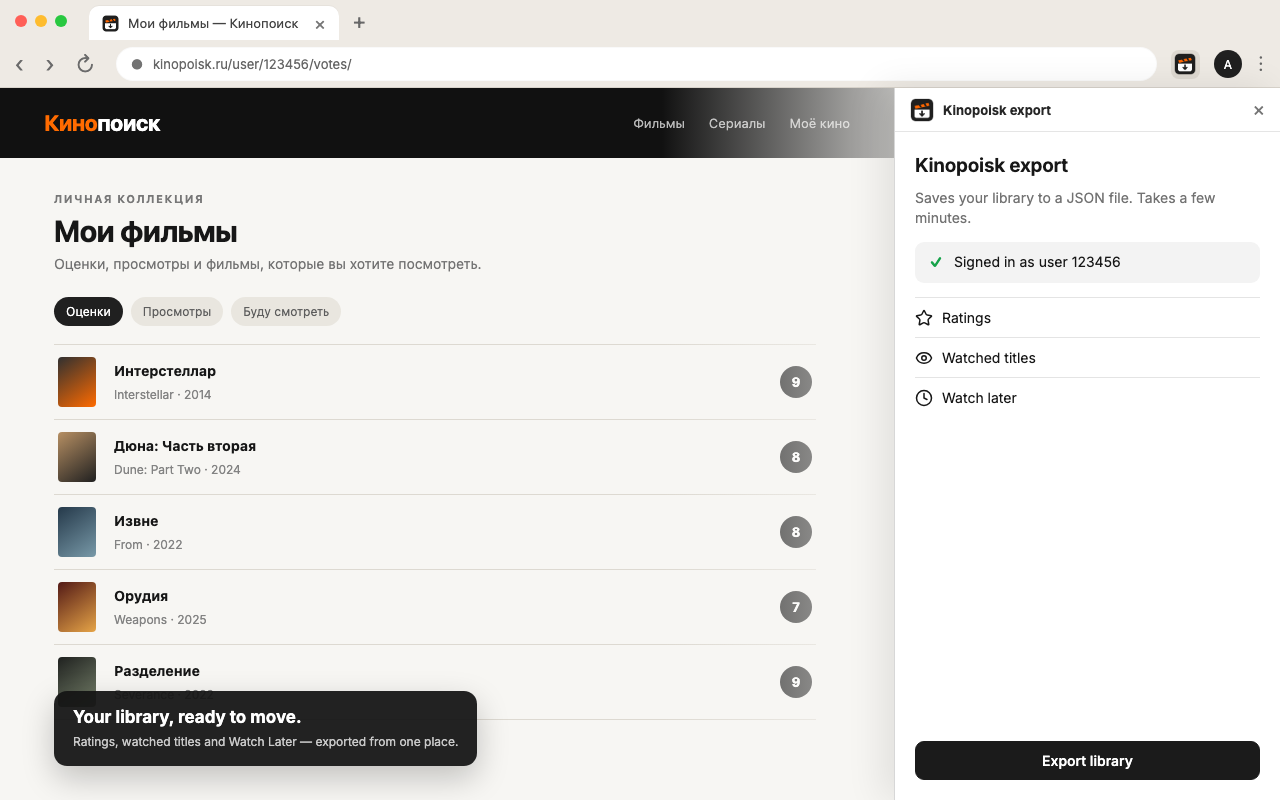
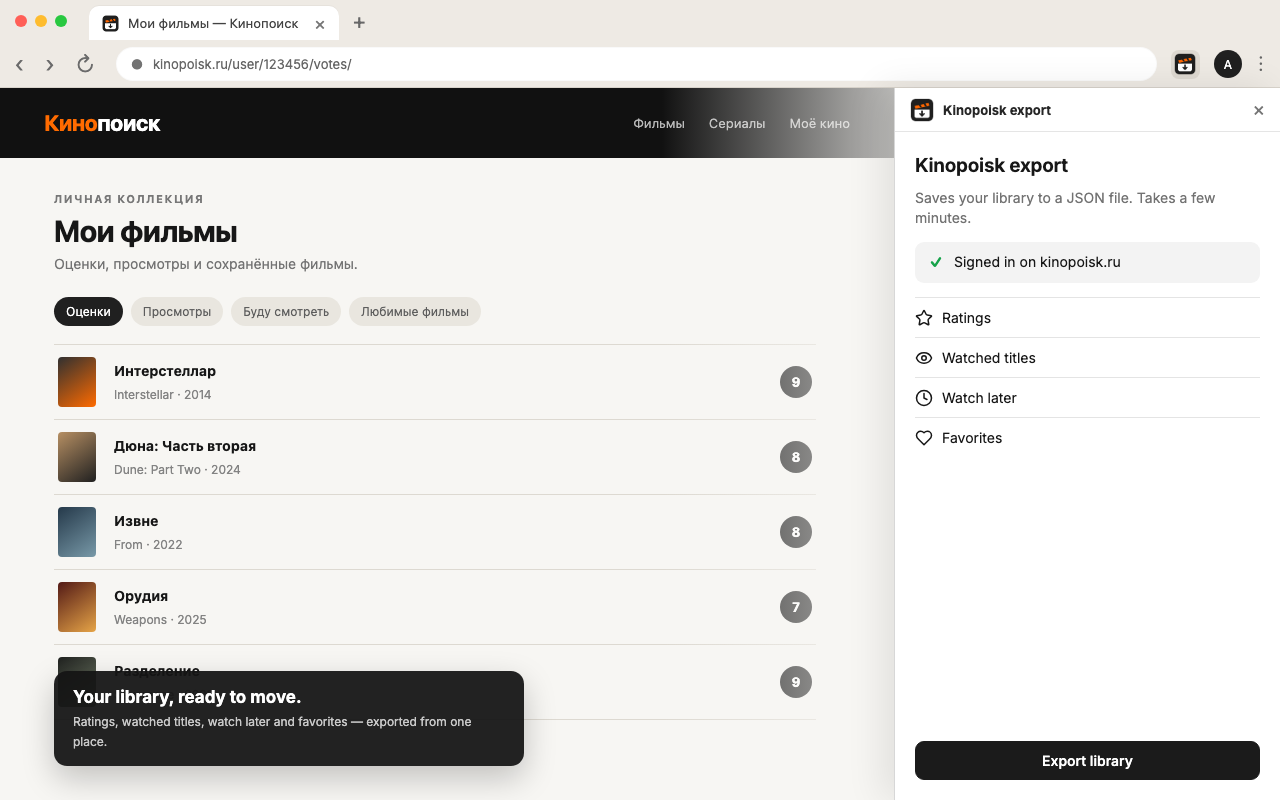
update screenshots for chrome ext store

diff --git a/design/store-listing/screenshots.html b/design/store-listing/screenshots.html
@@ -379,6 +379,21 @@
       .orange {
         color: #d97706;
       }
+      .red {
+        color: #b91c1c;
+      }
+
+      .error-box {
+        display: flex;
+        align-items: flex-start;
+        gap: 9px;
+        margin: 0;
+        padding: 11px 12px;
+        border-radius: 9px;
+        color: #b91c1c;
+        background: #fef2f2;
+        line-height: 1.4;
+      }
 
       .rows {
         list-style: none;
@@ -447,7 +462,8 @@
       }
 
       .stats {
-        display: flex;
+        display: grid;
+        grid-template-columns: 1fr 1fr;
         gap: 8px;
       }
       .stat {
@@ -499,6 +515,12 @@
       .shot-done .story-label span {
         color: #d4f7df;
       }
+      .shot-error .story-label {
+        background: rgba(153, 27, 27, 0.96);
+      }
+      .shot-error .story-label span {
+        color: #fee2e2;
+      }
     </style>
   </head>
   <body>
@@ -535,10 +557,10 @@
             <div class="library">
               <div class="eyebrow">Личная коллекция</div>
               <h2>Мои фильмы</h2>
-              <p class="library-lead">Оценки, просмотры и фильмы, которые вы хотите посмотреть.</p>
+              <p class="library-lead">Оценки, просмотры и сохранённые фильмы.</p>
               <div class="filter-row">
                 <span class="chip active">Оценки</span><span class="chip">Просмотры</span
-                ><span class="chip">Буду смотреть</span>
+                ><span class="chip">Буду смотреть</span><span class="chip">Любимые фильмы</span>
               </div>
               <div class="movie-list">
                 <div class="movie">
@@ -586,7 +608,7 @@
       <h1>Kinopoisk export</h1>
       <p class="lead">Saves your library to a JSON file. Takes a few minutes.</p>
       <div class="account">
-        <span class="mark green">✓</span><span>Signed in as user 123456</span>
+        <span class="mark green">✓</span><span>Signed in on kinopoisk.ru</span>
       </div>
       <ul class="rows">
         <li class="row">
@@ -619,6 +641,16 @@
           </span>
           Watch later
         </li>
+        <li class="row">
+          <span class="symbol">
+            <svg viewBox="0 0 24 24" aria-hidden="true">
+              <path
+                d="M19 14c1.49-1.46 3-3.21 3-5.5A5.5 5.5 0 0 0 16.5 3c-1.76 0-3 .5-4.5 2-1.5-1.5-2.74-2-4.5-2A5.5 5.5 0 0 0 2 8.5c0 2.3 1.5 4.05 3 5.5l7 7Z"
+              />
+            </svg>
+          </span>
+          Favorites
+        </li>
       </ul>
       <div class="footer"><button class="button primary">Export library</button></div>
     </template>
@@ -644,12 +676,20 @@
           Ratings<span class="row-count">78</span>
         </li>
         <li class="row">
+          <span class="symbol green">
+            <svg viewBox="0 0 24 24" aria-hidden="true">
+              <path d="M20 6 9 17l-5-5" />
+            </svg>
+          </span>
+          Watch later<span class="row-count">65</span>
+        </li>
+        <li class="row">
           <span class="symbol blue">
             <svg class="spinner" viewBox="0 0 24 24" aria-hidden="true">
               <path d="M21 12a9 9 0 1 1-6.219-8.56" />
             </svg>
           </span>
-          Watch later<span class="row-count">34 of 65</span>
+          Favorites<span class="row-count">18 of 27</span>
         </li>
         <li class="row pending">
           <span class="symbol">
@@ -670,6 +710,7 @@
         <div class="stat"><b>78</b>Ratings</div>
         <div class="stat"><b>64</b>Seen</div>
         <div class="stat"><b>65</b>Watch later</div>
+        <div class="stat"><b>27</b>Favorites</div>
       </div>
       <div class="footer">
         <button class="button primary">Download again</button
@@ -677,11 +718,57 @@
       </div>
     </template>
 
+    <template id="error">
+      <h1>Export stopped</h1>
+      <p class="error-box">
+        <span class="mark red">⚠</span
+        ><span>Kinopoisk shows a captcha. Open kinopoisk.ru, solve it, then try again.</span>
+      </p>
+      <ul class="rows">
+        <li class="row">
+          <span class="symbol green">
+            <svg viewBox="0 0 24 24" aria-hidden="true"><path d="M20 6 9 17l-5-5" /></svg>
+          </span>
+          Watched titles<span class="row-count">142</span>
+        </li>
+        <li class="row">
+          <span class="symbol green">
+            <svg viewBox="0 0 24 24" aria-hidden="true"><path d="M20 6 9 17l-5-5" /></svg>
+          </span>
+          Ratings<span class="row-count">78</span>
+        </li>
+        <li class="row">
+          <span class="symbol red">
+            <svg viewBox="0 0 24 24" aria-hidden="true">
+              <path d="M18 6 6 18M6 6l12 12" />
+            </svg>
+          </span>
+          Watch later
+        </li>
+        <li class="row pending">
+          <span class="symbol">
+            <svg viewBox="0 0 24 24" aria-hidden="true"><circle cx="12" cy="12" r="10" /></svg>
+          </span>
+          Favorites
+        </li>
+        <li class="row pending">
+          <span class="symbol">
+            <svg viewBox="0 0 24 24" aria-hidden="true"><circle cx="12" cy="12" r="10" /></svg>
+          </span>
+          TMDB IDs
+        </li>
+      </ul>
+      <div class="footer">
+        <button class="button">Open kinopoisk.ru</button
+        ><button class="button primary">Try again</button>
+      </div>
+    </template>
+
     <script>
       const states = {
         ready: {
           story:
-            '<b>Your library, ready to move.</b><span>Ratings, watched titles and watch later — exported from one place.</span>',
+            '<b>Your library, ready to move.</b><span>Ratings, watched titles, watch later and favorites — exported from one place.</span>',
           className: 'shot-ready',
         },
         progress: {
@@ -693,6 +780,11 @@
           story:
             '<b>One portable JSON file.</b><span>Your data is built in the browser and saved directly to Downloads.</span>',
           className: 'shot-done',
+        },
+        error: {
+          story:
+            '<b>Helpful when something gets in the way.</b><span>See exactly where the export stopped, fix the issue and try again.</span>',
+          className: 'shot-error',
         },
       }
       const state = new URLSearchParams(location.search).get('shot') || 'ready'
